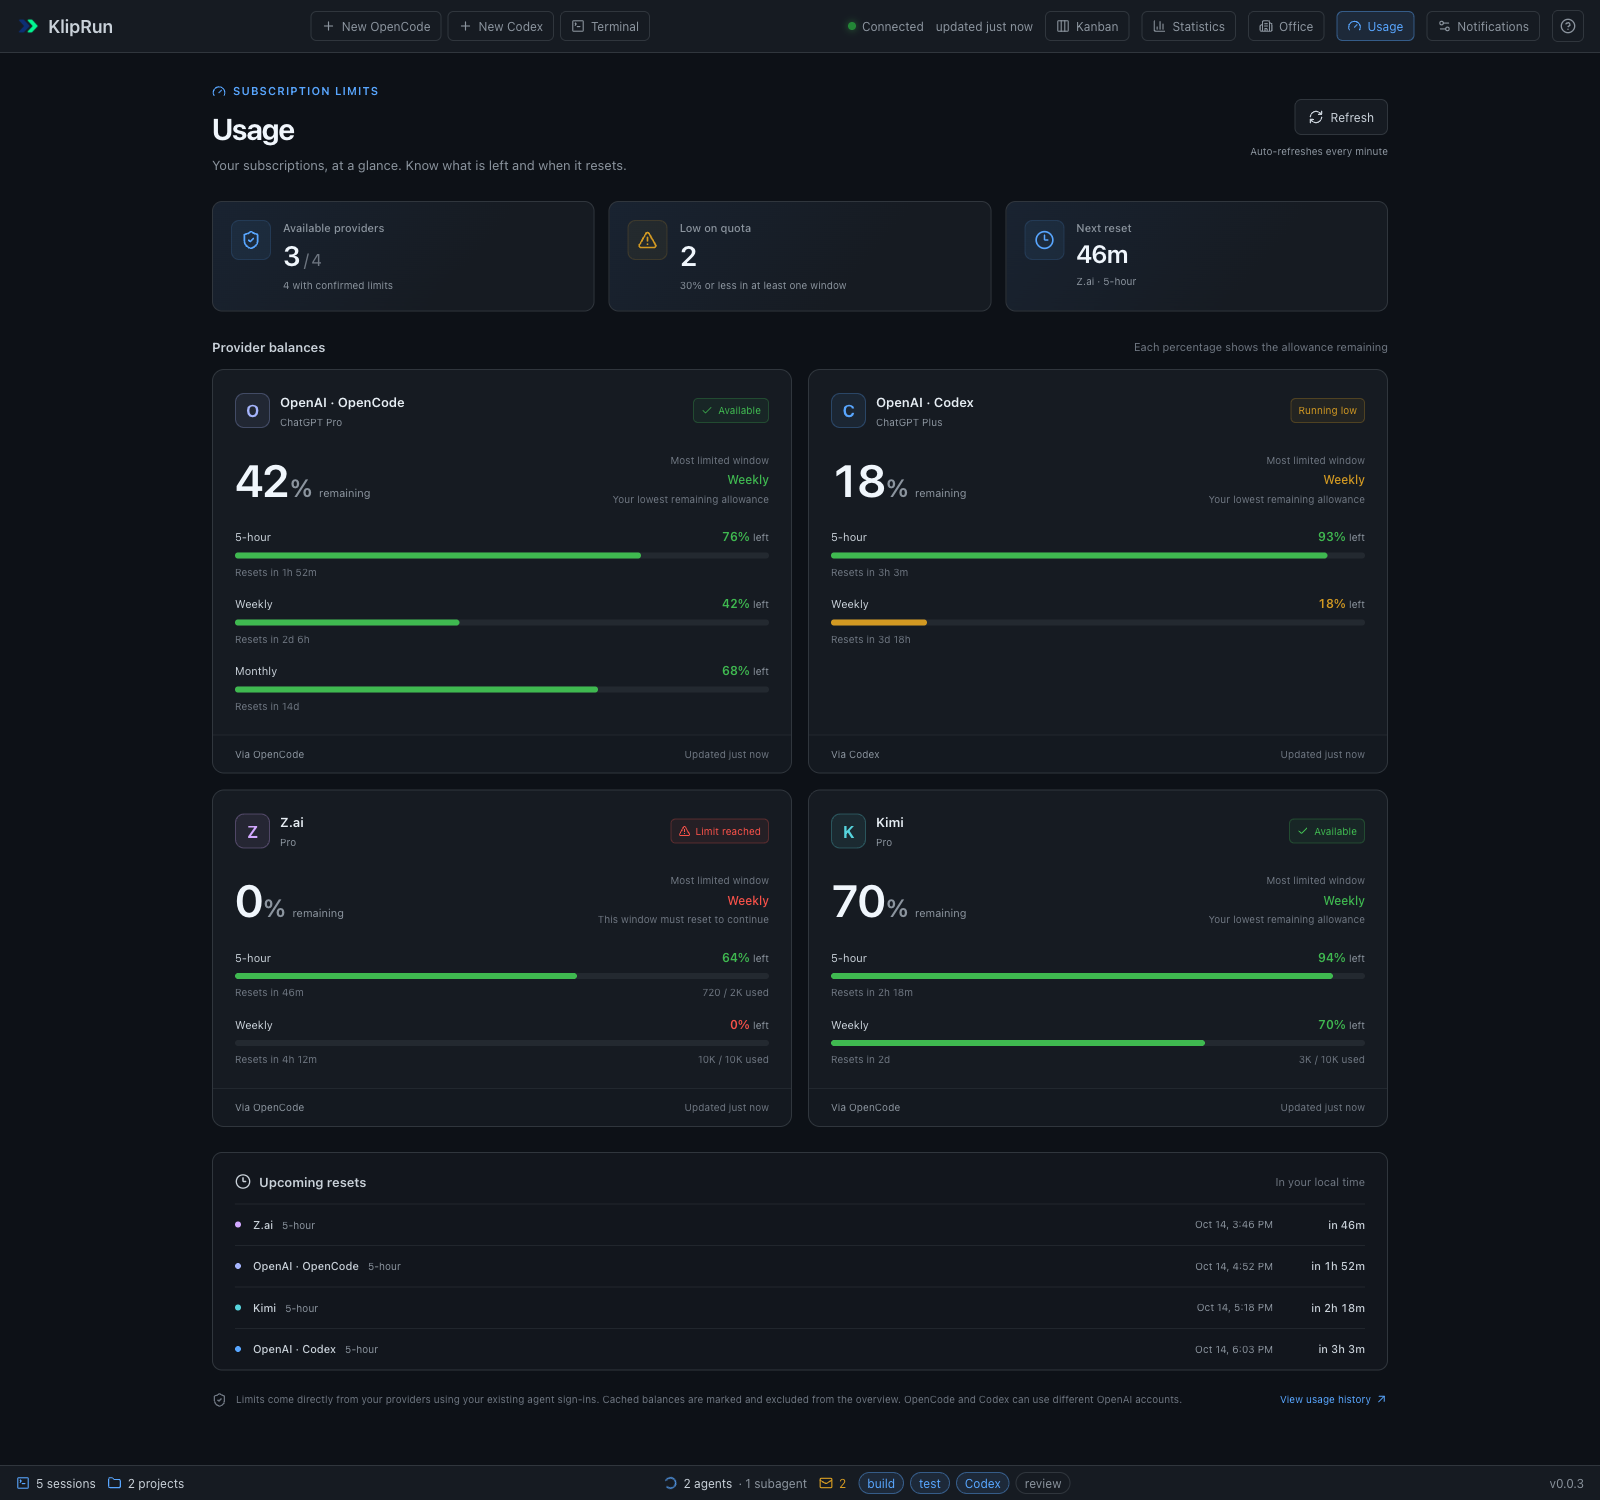
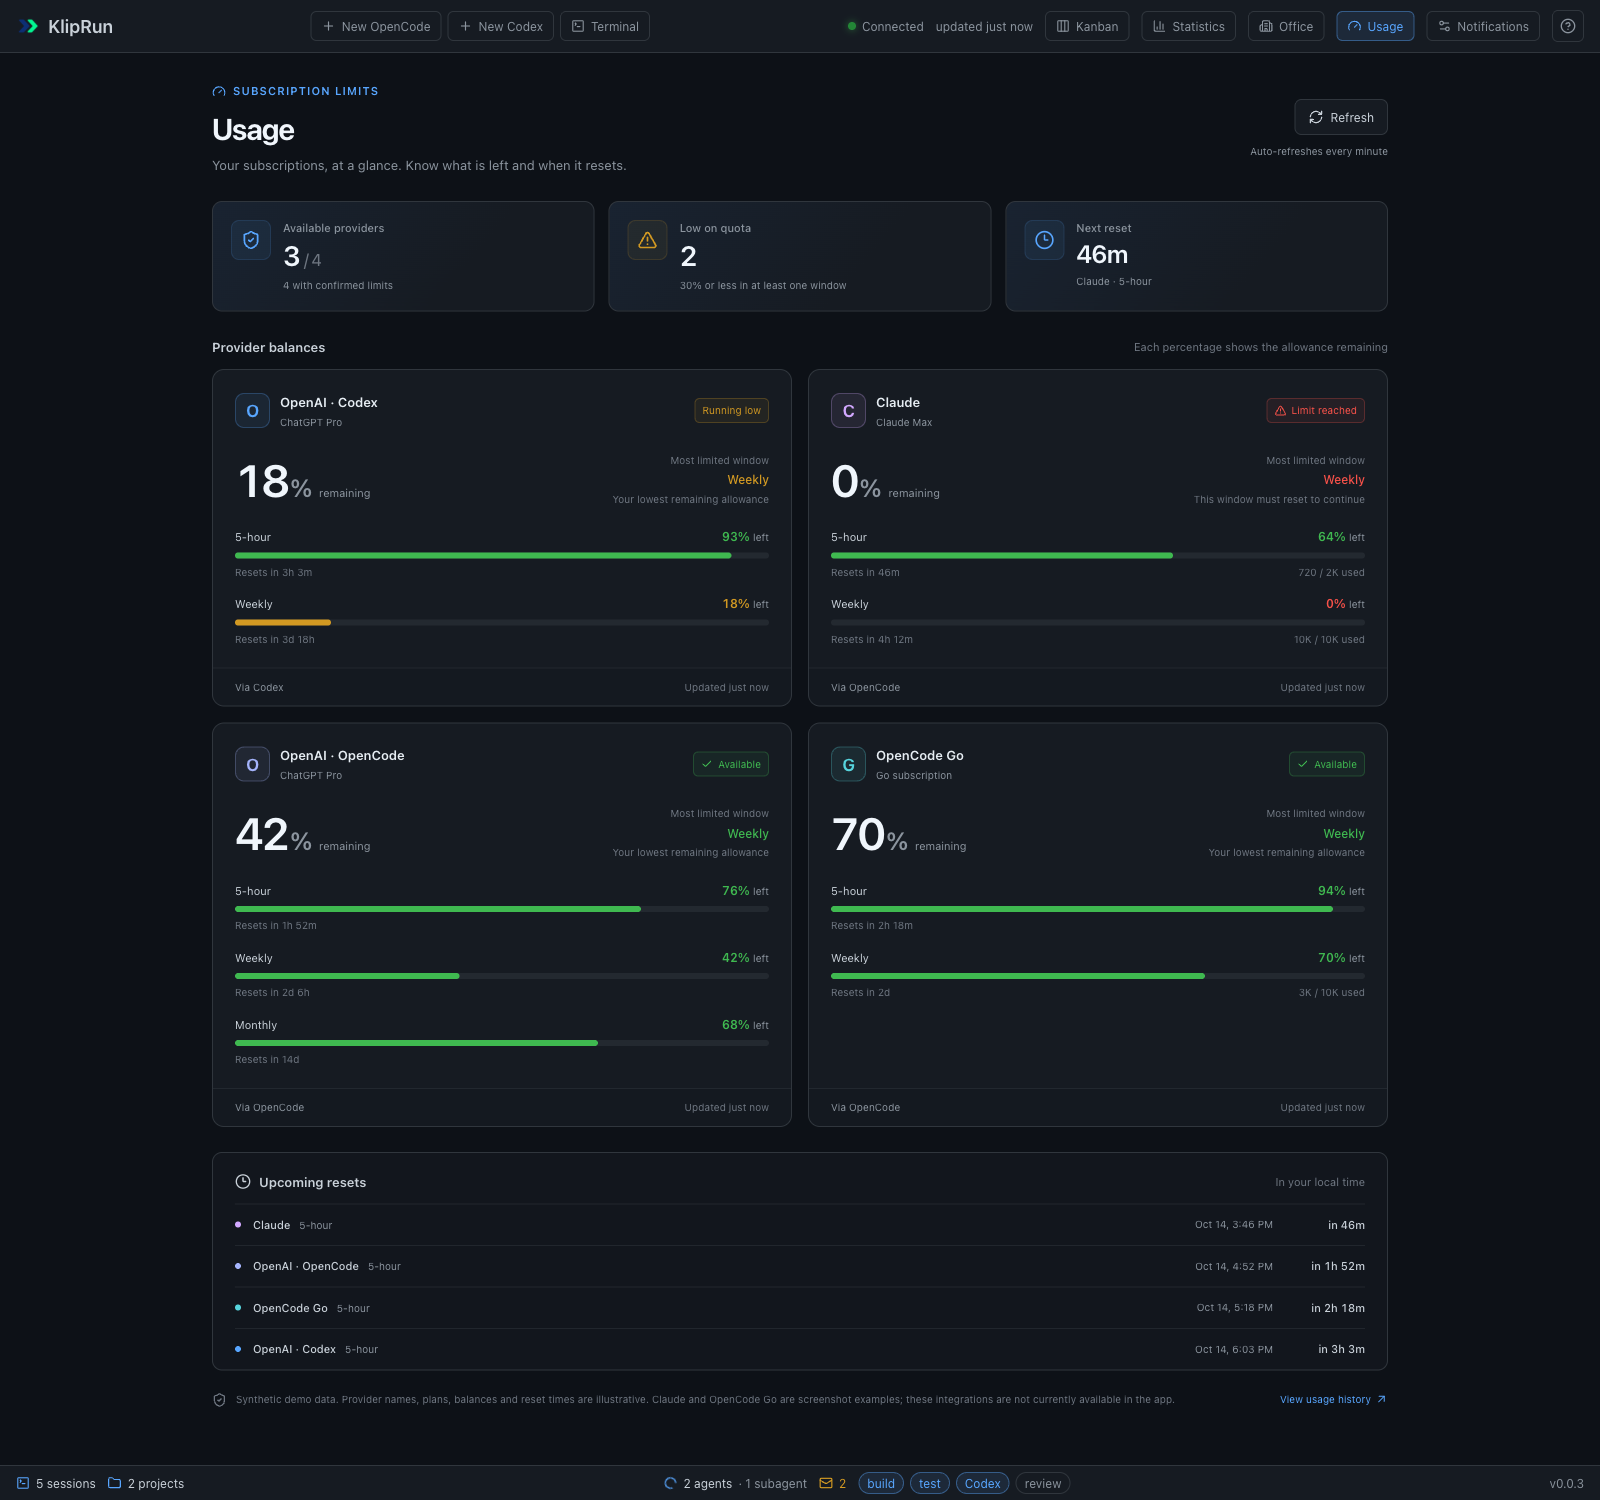
main: Обновить демонстрационный скриншот Usage

diff --git a/docs/screenshots/capture-usage.js b/docs/screenshots/capture-usage.js
@@ -1,0 +1,38 @@
+// Playwright callback for the fixture-only preview described in README.md.
+// Presentation overrides illustrate requested providers; they do not add integrations.
+async (page) => {
+  await page.setViewportSize({ width: 1600, height: 1500 });
+  await page.goto('http://127.0.0.1:18796/usage');
+  await page.locator('.usage-provider[data-provider="kimi"] .usage-balance').waitFor();
+  await page.getByText('Checking providers…', { exact: true }).waitFor({ state: 'hidden' });
+  await page.evaluate(() => {
+    const examples = {
+      codex: { label: 'OpenAI · Codex', plan: 'ChatGPT Pro', source: 'Codex', icon: 'O' },
+      zai: { label: 'Claude', plan: 'Claude Max', source: 'OpenCode', icon: 'C' },
+      openai: { label: 'OpenAI · OpenCode', plan: 'ChatGPT Pro', source: 'OpenCode', icon: 'O' },
+      kimi: { label: 'OpenCode Go', plan: 'Go subscription', source: 'OpenCode', icon: 'G' },
+    };
+    const grid = document.querySelector('.usage-provider-grid');
+    for (const [provider, example] of Object.entries(examples)) {
+      const card = grid.querySelector(`[data-provider="${provider}"]`);
+      card.querySelector('h2').textContent = example.label;
+      card.setAttribute('aria-label', example.label);
+      card.querySelector('.usage-provider-identity p').textContent = example.plan;
+      card.querySelector('.usage-monogram').textContent = example.icon;
+      card.querySelector('.usage-provider-footer span').textContent = `Via ${example.source}`;
+      card.querySelector('.usage-balance').setAttribute('aria-label', `${example.label}: synthetic remaining allowance`);
+      grid.append(card);
+    }
+    for (const row of document.querySelectorAll('.usage-reset-item')) {
+      const provider = row.querySelector('[data-provider]').dataset.provider;
+      row.querySelector('strong').textContent = examples[provider].label;
+    }
+    const nextReset = document.querySelector('.usage-next-reset + p');
+    nextReset.textContent = nextReset.textContent.replace('Z.ai', 'Claude').replace('Kimi', 'OpenCode Go');
+    document.querySelector('.usage-footnote p').textContent = 'Synthetic demo data. Provider names, plans, balances and reset times are illustrative. Claude and OpenCode Go are screenshot examples; these integrations are not currently available in the app.';
+  });
+  const labels = await page.locator('.usage-provider h2').allTextContents();
+  if (labels.join('|') !== 'OpenAI · Codex|Claude|OpenAI · OpenCode|OpenCode Go') throw new Error(`Unexpected cards: ${labels}`);
+  await page.screenshot({ path: '/Users/a.voronko/Documents/github/kliprun_desktop/docs/screenshots/usage.png', fullPage: true });
+  return { labels, viewport: page.viewportSize() };
+}

diff --git a/docs/screenshots/README.md b/docs/screenshots/README.md
@@ -11,13 +11,13 @@ These images show the real KlipRun web interface with **fictional data** from [`
 | [`office.png`](office.png) | Work, idle, and meeting areas with synthetic coworkers |
 | [`statistics.png`](statistics.png) | Thirty days of synthetic usage, Daily token heatmap and token mix, timezone UTC |
 | [`statistics-weekly.png`](statistics-weekly.png) | Weekly token heatmap and token composition for the same period |
-| [`usage.png`](usage.png) | Synthetic subscription allowances for OpenAI via OpenCode and Codex, Z.ai, and Kimi |
+| [`usage.png`](usage.png) | Synthetic subscription allowances for OpenAI via Codex, Claude, OpenAI via OpenCode, and OpenCode Go |
 | [`shortcuts.png`](shortcuts.png) | In-app keyboard shortcut guide |
 
 The mock API payload covers `/api/board`, `/api/session/:id`, `/api/recent-sessions`, `/api/stats`, `/api/stats/sessions`, `/api/stats/office-usage`, and `/api/quota/:provider` (the `quotas` map). When updating screenshots, serve the built `engine/src/client/dist` without a live engine, intercept those routes with the fixture, and verify that names and paths still refer only to the demo data before committing the images. The desktop terminal composition uses only the existing fixture screenshot and the static synthetic content in `terminal-demo.html`.
 
 `recent-sessions.png` captures the 0.0.2 web UI at 1600 × 1000 with the clock set to the fixture's `board.generated_at`. The `recent_sessions` fixture includes five board sessions and two historical sessions absent from the board. A stub desktop bridge displays the native action buttons without launching agents. The selected session is `ses_demo_search`, matching the fixture's `details` payload.
 
-`usage.png` captures the 0.0.3 Usage tab at 1600 × 1500 with the clock fixed to `board.generated_at` and a stub desktop bridge. All four `/api/quota/:provider` responses come from the fixture's `quotas` map; the example includes healthy, low, and exhausted balances. No provider credentials, live quota APIs, or real user data were used for this screenshot.
+`usage.png` captures the 0.0.3 Usage tab at 1600 × 1500 with the clock fixed to `board.generated_at` and a stub desktop bridge. All four `/api/quota/:provider` responses come from the fixture's `quotas` map; the example includes healthy, low, and exhausted balances. No provider credentials, live quota APIs, or real user data were used for this screenshot. [`capture-usage.js`](capture-usage.js) is a Playwright callback for a fixture-only preview at `http://127.0.0.1:18796`; it reorders the cards and applies screenshot-only labels: Z.ai becomes Claude, and Kimi becomes OpenCode Go. All balances still come from the fixture. These two providers are illustrative mockups, not currently supported integrations; the screenshot also states this explicitly.
 
 The 0.0.3 Statistics screenshots use `statistics_dataset`, a fictional 60-day event and observation history in `mock-api.json`, aggregated by the production `buildDashboard` and `rankSessions` functions. The stored `stats` and `stats_sessions` payloads are its last-30-days UTC view. Interactive checks apply real filters to this fixture dataset; dates, token components, call counts, and heatmap totals are derived from the same records. The clock stays fixed to `board.generated_at`.
